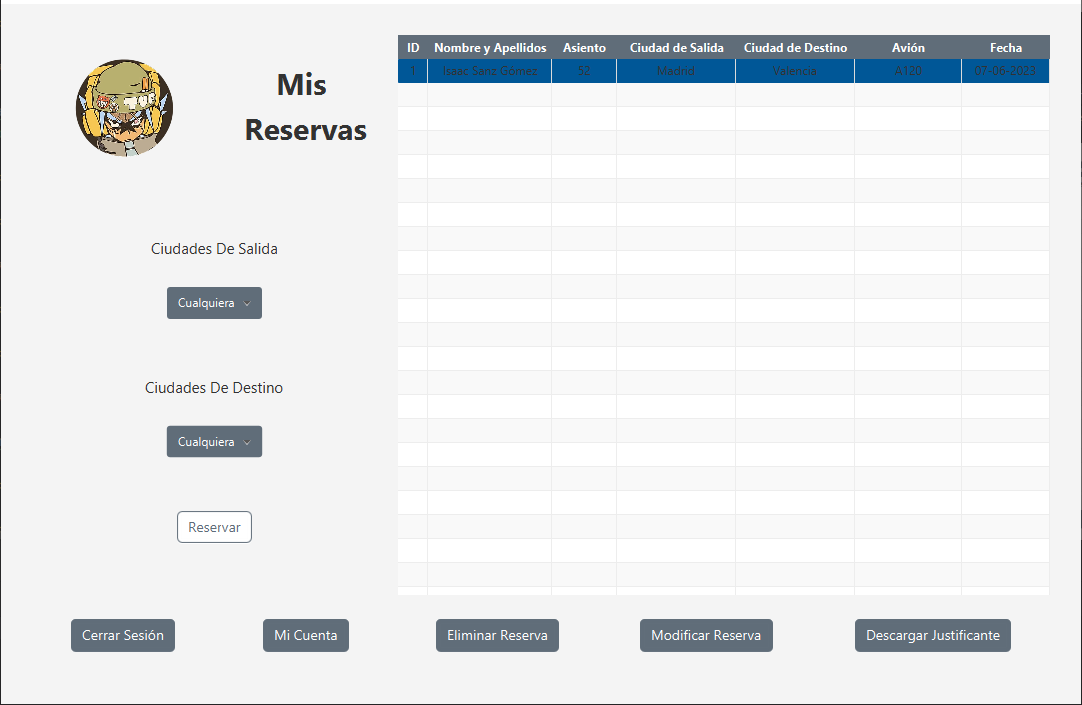
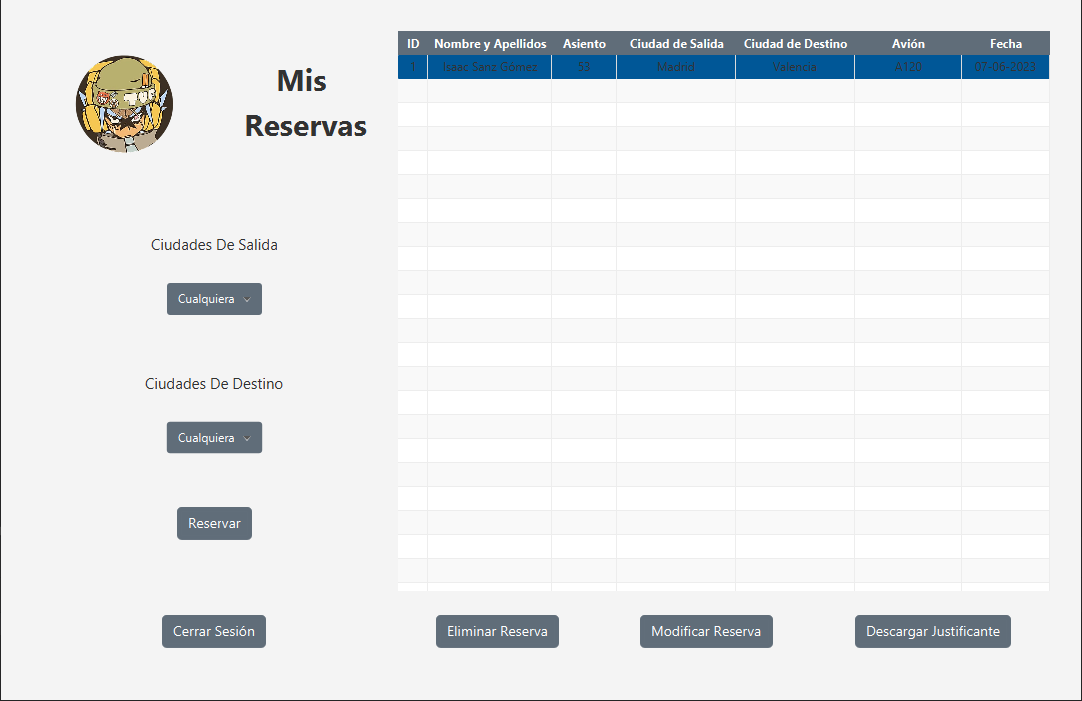
Boton Mi Cuenta Borrado

diff --git a/App/src/main/java/app/InicioUserController.java b/App/src/main/java/app/InicioUserController.java
@@ -119,9 +119,6 @@ public class InicioUserController implements Initializable {
     @FXML
     private Label tittleLabel;
 
-    @FXML
-    private Button miCuentaButton;
-
 
     @FXML
     private ImageView imagenUsuario;
@@ -196,17 +193,6 @@ public class InicioUserController implements Initializable {
         this.endSession.setOnAction((event) -> {
             try {
                 endSession();
-            } catch (IOException e) {
-                Alert dialog = new Alert(AlertType.ERROR);
-                dialog.setTitle("ERROR");
-                dialog.setHeaderText(e.getMessage());
-                dialog.show();
-            }
-        });
-
-        this.miCuentaButton.setOnAction(event -> {
-            try {
-                App.setRoot("myAccount");
             } catch (IOException e) {
                 Alert dialog = new Alert(AlertType.ERROR);
                 dialog.setTitle("ERROR");
